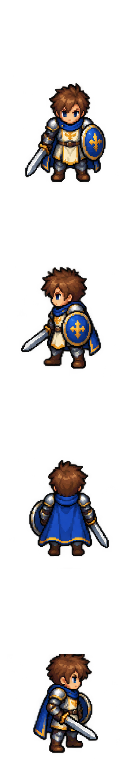
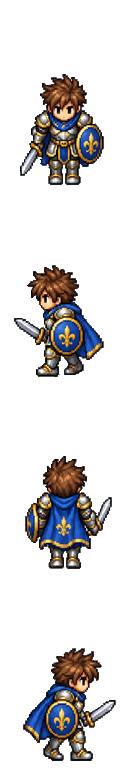
.

diff --git a/public/chars.js b/public/chars.js
@@ -1,7 +1,7 @@
 // Personagens em camadas (paper doll) a partir das folhas PNG geradas — As Aventuras do Piper
 const CHARS = (function () {
   const D = DEFS, SHEETS = {}, ANIMATIONS = {}, cache = new Map();
-  const ASSET_REV = 'motion-pixel-actions-4';
+  const ASSET_REV = 'hero-gpt-1';
   let CW = 128, CH = 192, ready = false;
 
   async function load(onProgress) {
@@ -72,9 +72,17 @@ const CHARS = (function () {
       return x1 < 0 ? null : { y1, h: y1 - y0 + 1, cx: (x0 + x1 + 1) / 2 };
     } catch (e) { return null; }
   }
+  function clipFor(look, action) {
+    const [, voc, armor, , weapon] = look.split('|');
+    if (weapon === 'spear' || armor === 'n_apron' || armor === 'n_green' || armor === 'n_white' || voc === 'npc') return null;
+    const clip = ANIMATIONS[voc === 'wizard' ? 'wizard' : 'warrior']?.[action];
+    return clip && clip.image ? clip : null;
+  }
   function sprite(look, dir, frame, action = 'idle') {
     const raw = rawSprite(look, dir, frame, action);
     if (!ready) return raw;
+    // Folhas já alinhadas na produção (pés em 185, mesma escala): desenha direto, sem reajuste.
+    if (clipFor(look, action)?.normalized) return raw;
     const key = look + '#' + dir + '#' + frame + '#' + action;
     let out = ncache.get(key); if (out) return out;
     const nk = look + '#' + dir + '#' + action;
@@ -108,12 +116,15 @@ const CHARS = (function () {
     else if (armor === 'n_apron') body = 'body_npc_blacksmith';
     else if (armor === 'n_green') body = 'body_npc_healer';
     else if (armor === 'n_white' || voc === 'npc') body = 'body_npc_sage';
-    const actor = voc === 'wizard' ? 'wizard' : 'warrior';
-    const clip = ANIMATIONS[actor] && ANIMATIONS[actor][action];
-    if (clip && clip.image && weapon !== 'spear' && armor !== 'n_apron' && armor !== 'n_green' && armor !== 'n_white' && voc !== 'npc') {
-      const count = Math.max(1, clip.frames | 0 || Math.floor(clip.image.width / CW));
+    const clip = clipFor(look, action);
+    if (clip) {
+      // Uma ação pode ter células mais largas (ex.: ataque com a espada estendida); o personagem
+      // continua centralizado e com a mesma escala, só sobra espaço dos lados.
+      const cw = (clip.cell && clip.cell[0]) || CW;
+      if (cw !== CW) { c.width = cw; }
+      const count = Math.max(1, clip.frames | 0 || Math.floor(clip.image.width / cw));
       const clipFrame = clip.loop ? ((frame % count) + count) % count : Math.max(0, Math.min(count - 1, frame | 0));
-      g.drawImage(clip.image, clipFrame * CW, dir * CH, CW, CH, 0, 0, CW, CH);
+      g.drawImage(clip.image, clipFrame * cw, dir * CH, cw, CH, 0, 0, cw, CH);
       if (ready) cache.set(key, c);
       return c;
     }
@@ -136,7 +147,7 @@ const CHARS = (function () {
     const [, voc] = look.split('|');
     const clip = ANIMATIONS[voc === 'wizard' ? 'wizard' : 'warrior']?.[action];
     if (!clip) return null;
-    const count = Math.max(1, clip.frames | 0 || Math.floor(clip.image.width / CW));
+    const count = Math.max(1, clip.frames | 0 || Math.floor(clip.image.width / ((clip.cell && clip.cell[0]) || CW)));
     const index = Math.floor(Math.max(0, elapsed) * (clip.fps || 12) / 1000);
     return clip.loop ? index % count : Math.min(count - 1, index);
   }

diff --git a/public/admin/index.html b/public/admin/index.html
@@ -209,8 +209,11 @@ td.num{text-align:right;font-variant-numeric:tabular-nums}
       ['Online agora', s.online, `pico hoje: ${s.peakToday}`], ['Cadastrados', num(s.users), `${s.newToday} novo(s) hoje`],
       ['Entradas hoje', num(s.loginsToday), `${s.chatsToday} mensagens no chat`], ['Mortes hoje', num(s.deathsToday), `${num(s.monsters)} monstros vivos`],
       ['Bloqueados', s.banned, 'contas'], ['Servidor ligado há', fmtDur(s.uptime), `Node ${esc(s.node)} · XP x${s.xpRate}`],
-      ['Memória', s.memMB + ' MB', `heap ${s.heapMB} MB`], ['Tick do jogo', s.tickAvg + ' ms', `máx ${s.tickMax} ms (limite 100)`]
+      ['Banco de dados', esc(String(s.storage || '?')).toUpperCase(), s.persistent ? 'salvo permanentemente' : '<b style="color:#ff6b6b">TEMPORÁRIO: some ao atualizar</b>'], ['Memória', s.memMB + ' MB', `heap ${s.heapMB} MB`], ['Tick do jogo', s.tickAvg + ' ms', `máx ${s.tickMax} ms (limite 100)`]
     ];
+    let warn = $('dbWarn'); if (!warn) { warn = document.createElement('div'); warn.id = 'dbWarn'; warn.style.cssText = 'background:#5a1d1d;color:#fff;border:1px solid #ff6b6b;border-radius:10px;padding:12px 14px;margin:0 0 14px;line-height:1.45'; $('cards').parentNode.insertBefore(warn, $('cards')); }
+    warn.style.display = s.persistent ? 'none' : 'block';
+    warn.innerHTML = '<b>Atenção: os cadastros não estão sendo salvos em banco.</b> ' + (s.host === 'Vercel' ? 'Na Vercel não existe disco permanente; conecte o Turso (SQLite na nuvem, grátis): Vercel → seu projeto → Storage → Create Database → Turso → Connect → Redeploy.' : 'Instale o better-sqlite3 (npm install) ou use o Docker com o volume /data.');
     $('cards').innerHTML = c.map(([k, v, sub]) => `<div class="card"><div class="k">${k}</div><div class="v">${v}</div><div class="s">${sub}</div></div>`).join('');
     const max = Math.max(1, ...s.byRegion.map(r => r.n));
     $('regionBars').innerHTML = s.byRegion.map(r => `<div><span>${esc(r.name)}</span><i style="width:${r.n / max * 100}%"></i><b>${r.n}</b></div>`).join('');

diff --git a/public/game.js b/public/game.js
@@ -115,7 +115,7 @@
     if (pAuto && t - pT > 2200) { pT = t; pDir = [1, 2, 3, 0][pDir]; }
     const action = pWalk ? 'walk' : 'idle';
     const look = CHARS.lookOf(voc, starter(voc), app);
-    const frame = pWalk ? (CHARS.actionFrame(look, 'walk', t) ?? Math.floor(t / 90) % 8) : 0;
+    const frame = pWalk ? (CHARS.actionFrame(look, 'walk', t) ?? Math.floor(t / 90) % 4) : 0;
     const c = $('prevCv'), g = c.getContext('2d'); g.clearRect(0, 0, c.width, c.height); g.imageSmoothingQuality = 'high';
     g.drawImage(CHARS.sprite(look, pDir, frame, action), 0, 0, c.width, c.height);
   }
@@ -635,7 +635,7 @@
       // As folhas novas têm os pés na linha 185/192. A linha do solo é 31,
       // igual aos monstros: antes em 29, o herói parecia levitar.
       const squash = 0;   // sem esticar/achatar: o personagem tem sempre o mesmo tamanho
-      const charW = 42 * scale * (1 + squash), charH = 63 * scale * (1 - squash);
+      const charW = 42 * scale * (1 + squash) * (img.width / 128), charH = 63 * scale * (1 - squash);
       const groundY = sy + 31, footRatio = 185 / 192;
       ctx.drawImage(img, Math.round((sx + 16 - charW / 2 + sway) * K) / K, Math.round((groundY - charH * footRatio) * K) / K, charW, charH);
       ctx.restore(); ctx.imageSmoothingEnabled = false;

diff --git a/server.js b/server.js
@@ -808,7 +808,7 @@ const server = http.createServer((req, res) => {
     if (u === '/' || u === '/api/server') u = '/index.html';
     if (u === '/admin' || u === '/admin/') u = '/admin/index.html';
     if (u.startsWith('/admin/api/')) return adminApi(req, res, u);
-    if (u === '/health') { res.writeHead(200, { 'Content-Type': 'text/plain', 'Cache-Control': 'no-store', 'Access-Control-Allow-Origin': '*' }); return res.end('ok ' + players.size); }
+    if (u === '/health') { res.writeHead(200, { 'Content-Type': 'text/plain', 'Cache-Control': 'no-store', 'Access-Control-Allow-Origin': '*' }); return res.end('ok ' + players.size + ' ' + store.kind + (store.persistent ? '' : ' TEMPORARIO')); }
     const f = path.join(PUBLIC, path.normalize(u).replace(/^(\.\.[\/\\])+/, ''));
     if (!f.startsWith(PUBLIC)) { res.writeHead(403); return res.end(); }
     let c; try { c = loadFile(f); } catch (e) { res.writeHead(404); return res.end('404'); }
